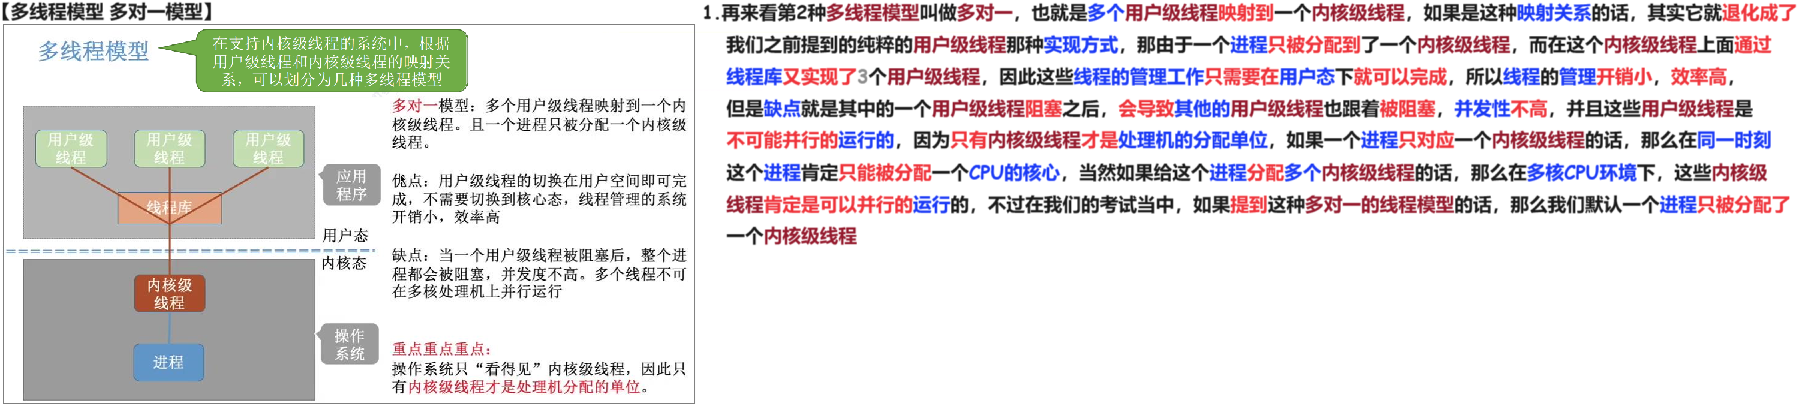
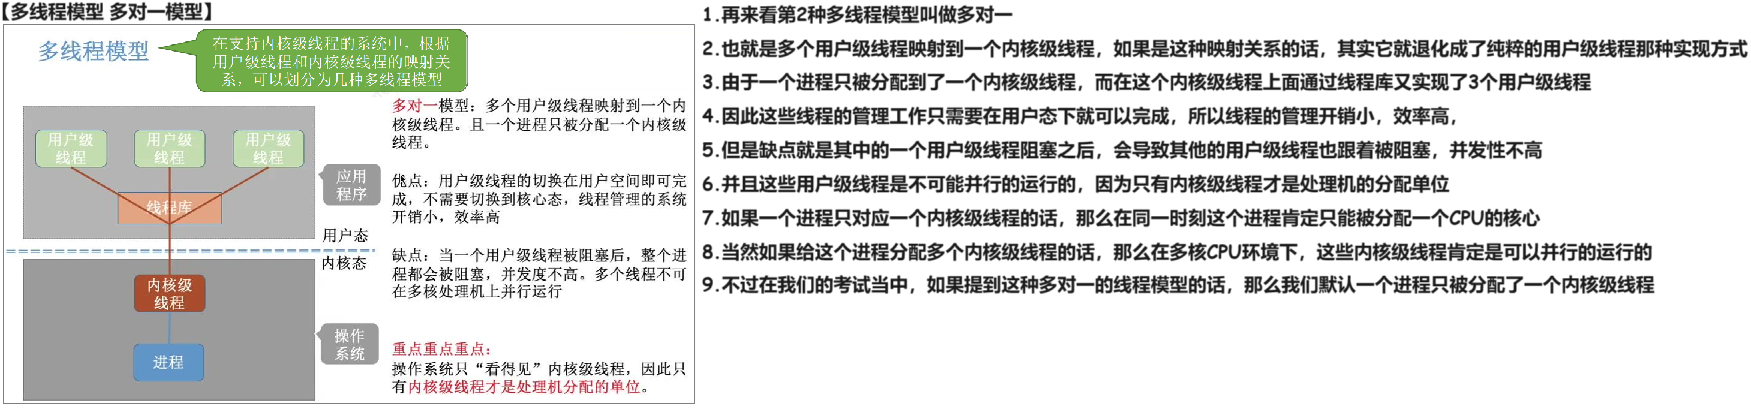
240616

diff --git a/01 初试/01 OS/02 24 25 王道/01 基础/02 进程 线程/01 进程 线程/06 线程 实现方式 多线程模型 240614/02 消化/02 Doc.md b/01 初试/01 OS/02 24 25 王道/01 基础/02 进程 线程/01 进程 线程/06 线程 实现方式 多线程模型 240614/02 消化/02 Doc.md
@@ -28,7 +28,7 @@
 
 # 05 多线程模型 多对一模型
 
-<img src="https://cvp.oss-cn-shanghai.aliyuncs.com/picgo/202405122149258.png" alt="image-20240512214906137" style="zoom:50%;" />
+<img src="https://cvp.oss-cn-shanghai.aliyuncs.com/picgo/202406160925332.png" alt="image-20240616092521168" style="zoom:50%;" />
 
 
 
